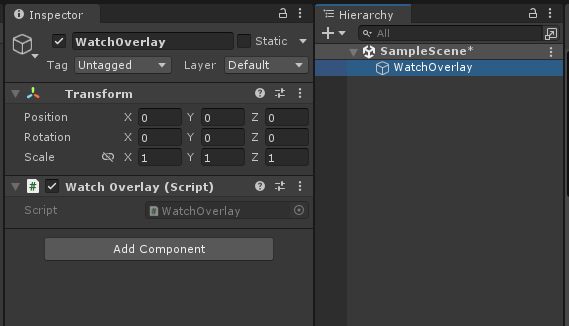
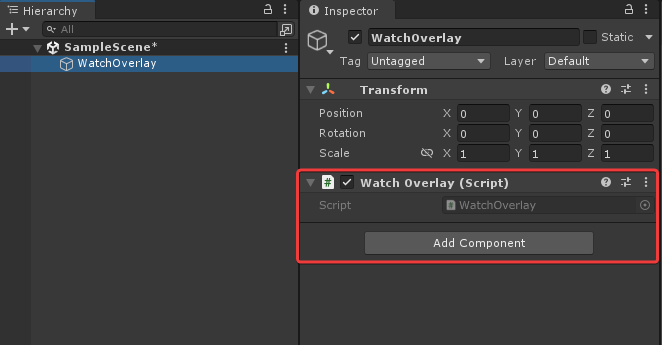
OpenVR の初期化を清書、規格の話を削除

diff --git a/books/a082c5728cc1f6/initialize.md b/books/a082c5728cc1f6/initialize.md
@@ -3,11 +3,10 @@ title: "OpenVR の初期化"
 free: false
 ---
 
-実際にオーバーレイを表示してみます。
-画像ファイルをオーバーレイとして表示するシンプルな関数があるので、まずはこれを使ってみましょう。
-
 ## スクリプトを作成
-Scripts フォルダ内に C# スクリプト WatchOverlay.cs を新規作成します。
+Assets/Script フォルダを作成して、C# スクリプト WatchOverlay.cs を新規作成します。
+
+![](/images/create-watch-overlay.png)
 
 ```cs:WatchOverlay.cs
 using UnityEngine;
@@ -20,12 +19,13 @@ public class WatchOverlay : MonoBehaviour
 }
 ```
 
-Hierarchy パネルを右クリック > Create Empty で空のオブジェクトをシーンに作成します。
-オブジェクトの名前を WatchOverlay に変更して、先程の WatchOverlay.cs をコンポーネントとして追加してください。
+## スクリプトをシーンに設置
+Hierarchy パネルを右クリック > Create Empty で、空のオブジェクトを作成します。
+オブジェクトの名前を WatchOverlay に変更し、先程の WatchOverlay.cs をコンポーネントとして追加してください。
 ![](/images/add-watch-overlay-component.png)
 
-
-OpenVR の API が定義されている名前空間 Valve.VR を追加しておきます。
+## OpenVR API の読み込み
+OpenVR の API が定義されている名前空間 Valve.VR を読み込みます。
 
 ```diff cs:WatchOverlay.cs
 using UnityEngine;
@@ -39,8 +39,8 @@ public class WatchOverlay : MonoBehaviour
 }
 ```
 
-## 初期化
-[Wiki](https://github.com/ValveSoftware/openvr/wiki/API-Documentation#initialization-and-cleanup) に書かれているように [Init()](https://valvesoftware.github.io/steamvr_unity_plugin/api/Valve.VR.OpenVR.html#Valve_VR_OpenVR_Init_Valve_VR_EVRInitError__Valve_VR_EVRApplicationType_System_String_) を呼び出します。
+## OpenVR の初期化
+OpenVR の API を使用するために [Init()](https://valvesoftware.github.io/steamvr_unity_plugin/api/Valve.VR.OpenVR.html#Valve_VR_OpenVR_Init_Valve_VR_EVRInitError__Valve_VR_EVRApplicationType_System_String_) で OpenVR を初期化します。（詳細は [Wiki](https://github.com/ValveSoftware/openvr/wiki/API-Documentation#initialization-and-cleanup) を参照）
 ```diff cs:WatchOverlay.cs
 using UnityEngine;
 using Valve.VR;
@@ -55,15 +55,12 @@ public class WatchOverlay : MonoBehaviour
 }
 ```
 
-`Init()` にはエラーを保存する変数（の参照）と、アプリケーションの種類を渡します。
-ここで渡した `error`（の参照）に、初期化時のエラー内容が書き込まれます。
-オーバーレイアプリの場合は `EVRApplicationType.VRApplication_Overlay` を指定します。
-その他のアプリケーションの種類は [EVRApplicationType](https://valvesoftware.github.io/steamvr_unity_plugin/api/Valve.VR.EVRApplicationType.html) で定義されています。
+初期化時に発生したエラーが error にセットされます。
+EVRApplicationType.VRApplication_Overlay を指定すると、オーバーレイアプリとして初期化します。その他のアプリケーションの種類は [EVRApplicationType](https://valvesoftware.github.io/steamvr_unity_plugin/api/Valve.VR.EVRApplicationType.html) で定義されています。
+オーバーレイアプリとして初期化すると、他の VR アプリの動作中に起動できるようになります。
 
-
-## 失敗時の処理
+## 初期化失敗
 初期化に失敗した場合の処理を追加します。
-`using System` は `Exception` を使用するために追加しています。 
 ```diff cs:WatchOverlay.cs
 using UnityEngine;
 using Valve.VR;
@@ -83,12 +80,13 @@ public class WatchOverlay : MonoBehaviour
 }
 ```
 
-初期化が成功した場合は「**エラーが発生しなかった**」という意味の `EVRInitError.None` が `error` に書き込まれます。
-つまり `EVRInitError.None` 以外だった場合は、エラーが発生したということになります。
-エラーの種類は [EVRInitiError](https://valvesoftware.github.io/steamvr_unity_plugin/api/Valve.VR.EVRInitError.html) に定義されています。
+初期化が成功した場合は「**エラーが発生しなかった**」という意味の `EVRInitError.None` が `error` にセットされます。
+`EVRInitError.None` 以外ならエラーが発生しています。
+初期化時のエラーは [EVRInitiError](https://valvesoftware.github.io/steamvr_unity_plugin/api/Valve.VR.EVRInitError.html) に定義されています。
+`using System` は `Exception` を使用するために追加しています。 
 
-## 既に初期化されている場合の対処
-他の場所で既に初期化されている場合には、初期化を実行しないようにします。
+## 既に初期化されている場合
+OpenVR が他の場所で既に初期化されている場合には、初期化を実行しないようにします。
 ```diff cs:WatchOverlay.cs
 using UnityEngine;
 using Valve.VR;
@@ -110,8 +108,8 @@ public class WatchOverlay : MonoBehaviour
 }
 ```
 
-OpenVR が初期化される前は OpenVR.System が null になっています。
-OpenVR API は下記のようにいくつかに分かれていて、初期化が成功すると、それぞれにアクセスできるようになります。
+OpenVR が初期化されているかどうかは OpenVR.System が null かどうかで判定できます。
+OpenVR API は下記のようにいくつかに分かれていて、初期化が成功するとアクセスできるようになります。
 
 - OpenVR.System
 - OpenVR.Chaperone
@@ -122,7 +120,7 @@ OpenVR API は下記のようにいくつかに分かれていて、初期化が
 - OpenVR.Input
 
 ## クリーンアップ
-[Wiki](https://github.com/ValveSoftware/openvr/wiki/API-Documentation#initialization-and-cleanup) を参考にして、終了時に [Shutdown()](https://valvesoftware.github.io/steamvr_unity_plugin/api/Valve.VR.OpenVR.html#Valve_VR_OpenVR_Shutdown) を呼び出します。
+プログラムの終了時に [Shutdown()](https://valvesoftware.github.io/steamvr_unity_plugin/api/Valve.VR.OpenVR.html#Valve_VR_OpenVR_Shutdown) を呼び出します。（詳細は [Wiki](https://github.com/ValveSoftware/openvr/wiki/API-Documentation#initialization-and-cleanup) を参照）
 
 ```diff cs:WatchOverlay.cs
 using UnityEngine;
@@ -153,8 +151,8 @@ public class WatchOverlay : MonoBehaviour
 }
 ```
 
-## 初期化できているか確認
-試しに Overlay API にアクセスできるか確認してみましょう。
+## 動作確認
+試しに Overlay API にアクセスできるか確認してみます。
 下記のログ出力を追加して、プログラムを実行してください。
 
 ```diff cs:WatchOverlay.cs
@@ -190,15 +188,12 @@ public class WatchOverlay : MonoBehaviour
 ```
 ![](https://storage.googleapis.com/zenn-user-upload/f7f7fe7912d6-20240306.png)
 
-初期化後に [CVROverlay](https://valvesoftware.github.io/steamvr_unity_plugin/api/Valve.VR.CVROverlay.html) が使えるようになっています。
-このクラスを使ってオーバーレイを作成します。
-
-また SteamVR を起動していない場合は、プログラムの実行時に SteamVR が起動されるようになります。
-
+[OpenVR.CVROverlay](https://valvesoftware.github.io/steamvr_unity_plugin/api/Valve.VR.CVROverlay.html) が、初期化前は Null, 初期化後にインスタンスになっています。
+また SteamVR を起動していない場合は、Init() によって SteamVR が起動されるようになります。
 ![](https://storage.googleapis.com/zenn-user-upload/30d14f878b47-20240306.png)
 
-:::details SteamVR Unity Plugin による初期化の設定
-このチュートリアルでは使用しませんが、SteamVR Unity Plugin では、Project Setting で下記の設定を行うことで、プラグイン側で OpenVR を初期化することも可能です。
+:::details SteamVR Plugin による初期化の設定
+このチュートリアルでは使用しませんが、SteamVR Plugin では、Project Setting で下記の設定を行うことで、プラグイン側で OpenVR を初期化することも可能です。
 
 - XR Plug-in Management で Initialize XR on Startup にチェックを入れる
 - OpenVR で Application Type を Overlay にする
@@ -227,7 +222,7 @@ private void Start()
 ```
 
 ## 初期化処理の整理
-一旦、初期化処理を関数 `InitOpenVR()` として分けておきます。
+初期化処理を `InitOpenVR()` として関数に分けておきます。
 
 ```diff cs:WatchOverlay.cs
 using UnityEngine;
@@ -272,7 +267,7 @@ public class WatchOverlay : MonoBehaviour
 ```
 
 ## クリーンアップ処理の整理
-同様にクリーンアップ処理も `ShutdownOpenVR()` として関数に分けておきます。
+同様にクリーンアップ処理を `ShutdownOpenVR()` として関数に分けておきます。
 ```diff cs:WatchOverlay.cs
 using UnityEngine;
 using Valve.VR;
@@ -306,7 +301,7 @@ public class WatchOverlay : MonoBehaviour
         }
     }
 
-+   private void ShutdownOpenVR();
++   private void ShutdownOpenVR()
 +   {
 +       if (OpenVR.System != null)
 +       {
@@ -346,7 +341,7 @@ public class WatchOverlay : MonoBehaviour
         }
     }
 
-   private void ShutdownOpenVR();
+   private void ShutdownOpenVR()
    {
        if (OpenVR.System != null)
        {

diff --git a/books/a082c5728cc1f6/create-project.md b/books/a082c5728cc1f6/create-project.md
@@ -1,0 +1,32 @@
+---
+title: "Unity プロジェクトの準備"
+free: false
+---
+
+## プロジェクトの新規作成
+任意の名前で Unity の新規プロジェクトを作成します。
+プロジェクトテンプレートは 3D を選択します。
+![](https://storage.googleapis.com/zenn-user-upload/df7746e620dc-20240227.png)
+
+## SteamVR Plugin のインストール
+Unity Asset Store で SteamVR Plugin をMyアセットに追加します。
+https://assetstore.unity.com/packages/tools/integration/steamvr-plugin-32647
+
+そのまま Asset Store 上で「Unityで開く」ボタンを押すと Unity の Package Manager が開くので、パッケージをインポートします。
+![](https://storage.googleapis.com/zenn-user-upload/14df39868604-20240122.png)
+
+ダイアログが表示されたら、指示に従って OK をクリック後、Unity を再起動します。
+![](https://storage.googleapis.com/zenn-user-upload/735f69eb776b-20240122.png)
+
+プロジェクトに Assets/SteamVR フォルダが作られていれば、インストールは完了です。
+![](https://storage.googleapis.com/zenn-user-upload/5089910653b4-20240227.png)
+
+## プロジェクトの設定
+メニューから Edit > Project Setttings を開きます。
+左側の一覧から XR Plug-in Management を選択します。
+Initialize XR on Startup のチェックを外します。
+![](/images/turn-off-xr-plugin-management.png)
+
+## シーンを空にする
+デフォルトの SampleScene 内のオブジェクトを削除して、シーンを空にしておきます。
+![](/images/empty-scene.png)
